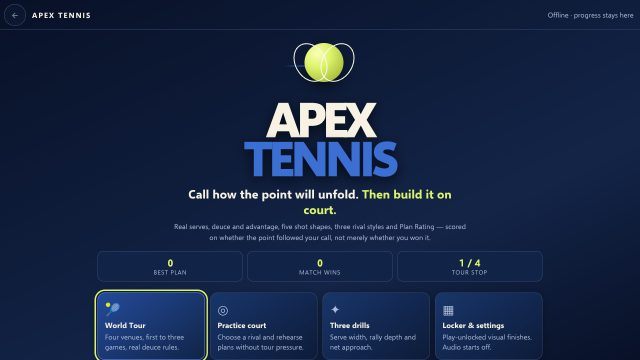
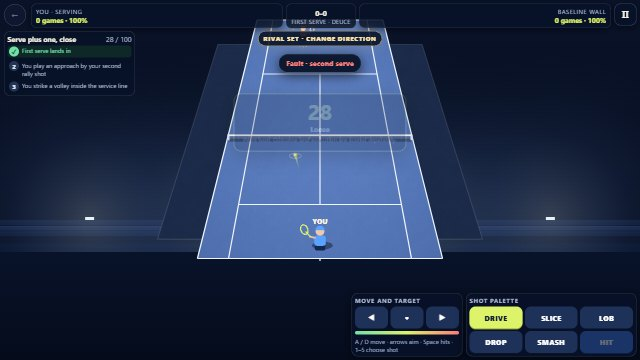
feat(play): upgrade Apex Tennis with CC0 court surfaces, net elevation/mesh & floodlit arena (#820)

diff --git a/apextennis/index.html b/apextennis/index.html
@@ -233,7 +233,7 @@ function pickChoices(){var rng=AT.mulberry32((G.pointSeed++*7919+G.venue*101)>>>
 function choosePlan(){clearTimers();G.phase='plan';G.planChoices=pickChoices();$('hud').classList.add('hidden');$('hud').setAttribute('aria-hidden','true');var cards=G.planChoices.map(function(p){return'<button class="plan-card" data-plan="'+p.id+'"><b>'+esc(p.name)+'</b><span>'+esc(p.desc)+(p.safe?' · SAFE PLAN · CEILING 70':'')+'</span><ol>'+p.clauses.map(function(c){return'<li>'+esc(c.label)+'</li>'}).join('')+'</ol><div class="call">CALL THIS POINT →</div></button>'}).join('');screens(panel('Call the point','<p class="note" style="margin-bottom:13px">Pick one plan. Its three clauses will tick visibly as the point develops. Winning and Plan Rating are scored separately.</p><div class="plan-grid">'+cards+'</div>','<button class="btn ghost" id="quitPlan">Title</button>'));document.querySelectorAll('[data-plan]').forEach(function(b){b.onclick=function(){beginPoint(AT.getPlan(b.dataset.plan))}});$('quitPlan').onclick=showTitle}
 function blankLog(){return{serveWide:false,serveWideMargin:0,servedBody:false,serveBodyDistance:999,shotCountAfterServe:0,finalLandingHalfMatches:false,ownShots:[],rallyShots:0,opponentStaminaMin:100,returnZone:'',tookNextBeforeSecondBounce:false,directionChanges:0,sameDirectionRun:0,firstBallCrosscourt:false,finalIntoOpenSpace:false,openSpaceMargin:0,firstServeIn:false,serveMargin:0,approachShotIndex:99,volleyInsideService:false,baselineShotsBeforeApproach:0,sliceCount:0,centreRecoveries:0,dropCount:0,backhandTargets:0,backhandBreak:false,finishAway:false,forehandTargetsBeforeBackhand:0,opponentInsideServiceAtLob:false,opponentCommitment:0,playerWon:false}}
 function startMatch(practice,drill){clearTimers();G.practice=!!practice;G.drill=drill||null;G.drillHits=0;G.drillTarget=drill==='serve'?5:(drill==='depth'?6:(drill==='net'?3:0));G.pauseOpen=false;G.v6Paused=false;G.score=AT.blankScore();G.score.setTarget=practice?2:3;G.ai.id=session.ai;G.player.stamina=G.ai.stamina=100;G.world=AT.makeWorld({surface:practice?session.surface:VENUES[G.venue].surface});G.running=true;G.last=performance.now();G.acc=0;G.selectedShot='drive';if(G.drill){var dp=G.drill==='serve'?'wide-first':(G.drill==='depth'?'grind-deep':'attack-net');beginPoint(AT.getPlan(dp))}else choosePlan()}
-function beginPoint(plan){clearTimers();G.selectedPlan=plan;G.log=blankLog();G.phase='serve';G.world=AT.makeWorld({surface:G.practice?session.surface:VENUES[G.venue].surface});G.world.ball.inRally=false;G.player.x=0;G.player.targetX=0;G.player.y=AT.C.PLAYER_Y;G.ai.x=0;G.ai.targetX=0;G.ai.y=AT.C.AI_Y;G.wasNearCentre=true;G.serveClock=0;G.lastHitter=null;G.shotReady=false;screens('');$('hud').classList.remove('hidden');$('hud').setAttribute('aria-hidden','false');updateHUD();resize();requestAnimationFrame(loop);canvas.focus();if(G.score.server===1){msg(AT.aiFor(G.ai.id).name+' serves.','warn');scheduleTimer(aiServe,settings.reduced?120:520)}else msg(G.score.serveNumber===2?'Second serve.':'Choose a target and serve.','warn')}
+function beginPoint(plan){clearTimers();G.selectedPlan=plan;G.log=blankLog();G.phase='serve';G.world=AT.makeWorld({surface:G.practice?session.surface:VENUES[G.venue].surface});G.world.ball.inRally=false;G.player.x=0;G.player.targetX=0;G.player.y=AT.C.PLAYER_Y;G.ai.x=0;G.ai.targetX=0;G.ai.y=AT.C.AI_Y;AT_TRAIL.length=0;AT_PUFFS.length=0;G.wasNearCentre=true;G.serveClock=0;G.lastHitter=null;G.shotReady=false;screens('');$('hud').classList.remove('hidden');$('hud').setAttribute('aria-hidden','false');updateHUD();resize();requestAnimationFrame(loop);canvas.focus();if(G.score.server===1){msg(AT.aiFor(G.ai.id).name+' serves.','warn');scheduleTimer(aiServe,settings.reduced?120:520)}else msg(G.score.serveNumber===2?'Second serve.':'Choose a target and serve.','warn')}
 function updateHUD(){var s=G.score;$('pLabel').textContent=s.server===0?'You · serving':'You';$('aLabel').textContent=AT.aiFor(G.ai.id).name+(s.server===1?' · serving':'');$('pScore').textContent=s.games[0]+' games · '+Math.round(G.player.stamina)+'%';$('aScore').textContent=s.games[1]+' games · '+Math.round(G.ai.stamina)+'%';$('pointScore').textContent=AT.pointDisplay(s);$('serveRead').textContent=(s.serveNumber===1?'FIRST':'SECOND')+' SERVE · '+s.side.toUpperCase();var drillTag=G.drill?(' · DRILL '+G.drillHits+'/'+G.drillTarget):'';$('planName').textContent=(G.selectedPlan?G.selectedPlan.name:'Plan')+drillTag;renderClauses();document.querySelectorAll('[data-shot]').forEach(function(b){b.setAttribute('aria-pressed',String(b.dataset.shot===G.selectedShot))});$('serveBtn').classList.toggle('hidden',G.phase!=='serve'||s.server!==0);$('hitBtn').disabled=!G.shotReady;$('staminaFill').style.width=Math.round(G.player.stamina)+'%'}
 function liveEvaluation(){if(!G.selectedPlan||!G.log)return null;return AT.evaluatePlan(G.selectedPlan,G.log)}
 function renderClauses(){var e=liveEvaluation(),box=$('clauseList');if(!e){box.textContent='';return}var rating=AT.planRating(G.selectedPlan,G.log);$('planLiveScore').textContent=rating+' / 100';box.innerHTML=e.rows.map(function(r,i){return'<div class="clause '+(r.met?'met':r.status==='failed'?'failed':'')+'"><i>'+(r.met?'✓':r.status==='failed'?'×':(i+1))+'</i><span>'+esc(r.label)+(r.status==='failed'?' — contradicted':'')+'</span></div>'}).join('')}
@@ -247,21 +247,86 @@ function attemptHit(who,kind){if(G.phase!=='rally'||G.world.ball.terminal)return
 function playerHit(){if(!G.shotReady){msg('Wait until the ball reaches your strike zone.','warn',900);return}attemptHit(0,G.selectedShot)}
 function aiHit(){var a=AT.aiFor(G.ai.id),b=G.world.ball;if(G.phase!=='rally'||G.receiver!==1)return;var kind='drive';if(a.id==='net'&&G.ai.stamina>25){kind=(b.z>120?'smash':'drive');G.ai.y=AT.moveToward(G.ai.y,-260,a.speed,AT.C.DT)}else if(a.id==='angle')kind=(G.pointSeed%3===0?'slice':'drive');else if(a.id==='baseline')kind=(G.pointSeed%4===0?'lob':'drive');attemptHit(1,kind)}
 function markServeIfNeeded(ev){if(!ev||G.log.returnZone)return;var m=ev.mark;if(G.lastHitter===G.score.server){var ok=AT.serviceBox(m.x,m.y,G.score.server,G.score.side,AT.C.BALL_R);if(!ok){G.world.ball.terminal=true;G.world.ball.inRally=false;var r=AT.serveResult(G.score,'fault');msg(r.event==='second-serve'?'Fault · second serve':'Double fault','bad',1300);if(r.event==='second-serve'){scheduleTimer(function(){G.phase='serve';G.world=AT.makeWorld({surface:G.world.surface});updateHUD();if(G.score.server===1)scheduleTimer(aiServe,350)},500)}else scheduleTimer(finishPoint,650);return false}if(G.score.server===0&&G.drill==='serve'&&Math.abs(m.x)>AT.C.SINGLES_HALF*.62)scoreDrillHit('Serve width mastered!');G.log.returnZone=Math.abs(m.y)<AT.C.SERVICE_L*.55?'front':'deep'}return true}
-function physicsStep(){var before=G.world.events.length;AT.stepWorld(G.world,AT.C.DT);for(var i=before;i<G.world.events.length;i++)if(G.world.events[i].type==='bounce'&&markServeIfNeeded(G.world.events[i])===false)return;var b=G.world.ball;if(G.phase==='rally'&&!b.terminal){if(G.receiver===1){var speedAi=AT.aiFor(G.ai.id).speed;G.ai.targetX=AT.clamp(b.x,-AT.C.SINGLES_HALF,AT.C.SINGLES_HALF);G.ai.x=AT.moveToward(G.ai.x,G.ai.targetX,speedAi*(.6+.4*G.ai.stamina/100),AT.C.DT);aiHit()}else{if(performance.now()>=G.manualUntil){G.player.targetX=AT.clamp(b.x,-AT.C.SINGLES_HALF,AT.C.SINGLES_HALF);G.player.x=AT.moveToward(G.player.x,G.player.targetX,235*(.6+.4*G.player.stamina/100),AT.C.DT)}if(G.drill==='net'&&G.log.ownShots.length>=1)G.player.y=AT.moveToward(G.player.y,AT.C.SERVICE_L*.72,180,AT.C.DT);var d=AT.hypot(b.x-G.player.x,b.y-G.player.y);G.shotReady=d<95&&b.z<210;if(G.shotReady&&settings.reduced)msg('HIT WINDOW','good',250);if(Math.abs(G.player.x)>90)G.wasNearCentre=false;else if(!G.wasNearCentre&&Math.abs(G.player.x)<70){G.wasNearCentre=true;G.log.centreRecoveries++}}}if(b.terminal)scheduleTimer(finishPoint,300)}
+function physicsStep(){var before=G.world.events.length;AT.stepWorld(G.world,AT.C.DT);for(var i=before;i<G.world.events.length;i++)if(G.world.events[i].type==='bounce'){var bm=G.world.events[i].mark;if(bm)addBouncePuff(bm.x,bm.y);if(markServeIfNeeded(G.world.events[i])===false)return;}var b=G.world.ball;if(G.phase==='rally'&&!b.terminal){if(G.receiver===1){var speedAi=AT.aiFor(G.ai.id).speed;G.ai.targetX=AT.clamp(b.x,-AT.C.SINGLES_HALF,AT.C.SINGLES_HALF);G.ai.x=AT.moveToward(G.ai.x,G.ai.targetX,speedAi*(.6+.4*G.ai.stamina/100),AT.C.DT);aiHit()}else{if(performance.now()>=G.manualUntil){G.player.targetX=AT.clamp(b.x,-AT.C.SINGLES_HALF,AT.C.SINGLES_HALF);G.player.x=AT.moveToward(G.player.x,G.player.targetX,235*(.6+.4*G.player.stamina/100),AT.C.DT)}if(G.drill==='net'&&G.log.ownShots.length>=1)G.player.y=AT.moveToward(G.player.y,AT.C.SERVICE_L*.72,180,AT.C.DT);var d=AT.hypot(b.x-G.player.x,b.y-G.player.y);G.shotReady=d<95&&b.z<210;if(G.shotReady&&settings.reduced)msg('HIT WINDOW','good',250);if(Math.abs(G.player.x)>90)G.wasNearCentre=false;else if(!G.wasNearCentre&&Math.abs(G.player.x)<70){G.wasNearCentre=true;G.log.centreRecoveries++}}}if(!v6Reduced()&&b.inRally){var tp=project(b.x,b.y,b.z);AT_TRAIL.push({x:tp.x,y:tp.y});if(AT_TRAIL.length>12)AT_TRAIL.shift();}if(b.terminal)scheduleTimer(finishPoint,300)}
 function finishPoint(){if(!G.running||G.phase==='rating'||G.phase==='plan')return;G.phase='rating';var winner=G.world.winner;if(winner===null)winner=1-G.receiver;G.log.playerWon=winner===0;G.log.finalLandingHalfMatches=(G.log.serveWide&&Math.sign(G.world.ball.x)!==Math.sign(G.log.serveWide?G.aimX:1));G.log.finalIntoOpenSpace=G.log.finalIntoOpenSpace||Math.abs(G.world.ball.x)>110;G.log.openSpaceMargin=AT.clamp(Math.abs(G.world.ball.x)/AT.C.SINGLES_HALF,0,1);if(G.log.ownShots.length)G.log.finalLandingHalfMatches=G.log.finalLandingHalfMatches||G.log.ownShots[G.log.ownShots.length-1].direction!==(G.aimX>0?'right':'left');AT.awardPoint(G.score,winner);var rating=AT.planRating(G.selectedPlan,G.log),band=AT.ratingBand(rating);progress.bestPlan=Math.max(progress.bestPlan,rating);if(rating>=70&&progress.unlocked.indexOf('white')<0)progress.unlocked.push('white');if(rating>=85&&progress.unlocked.indexOf('solar')<0)progress.unlocked.push('solar');if(rating>=95&&progress.unlocked.indexOf('gold')<0)progress.unlocked.push('gold');save();$('ratingNum').textContent=rating;$('ratingBand').textContent=band;$('ratingText').textContent=(winner===0?'Point won. ':'Point lost. ')+(AT.evaluatePlan(G.selectedPlan,G.log).abandoned?'The plan was contradicted.':'Outcome and execution are scored separately.');$('rating').classList.add('rating-on');renderClauses();announce('Plan Rating '+rating+' out of 100. '+band+'. '+(winner===0?'Point won.':'Point lost.'));scheduleTimer(function(){$('rating').classList.remove('rating-on');afterPoint()},settings.reduced?900:1800)}
 function afterPoint(){if(G.score.matchOver){finishMatch();return}if(G.drill){beginPoint(G.selectedPlan);return}choosePlan()}
 function finishMatch(){clearTimers();G.running=false;$('hud').classList.add('hidden');$('hud').setAttribute('aria-hidden','true');var won=G.score.winner===0;if(won){progress.matchWins++;if(!G.practice){progress.completed.indexOf(G.venue)<0&&progress.completed.push(G.venue);progress.venue=Math.min(3,G.venue+1)}}save();var body='<div class="title"><div style="font-size:66px">'+(won?'🏆':'🎾')+'</div><h1 style="font-size:34px">'+(won?'Match won':'Match complete')+'</h1><p class="thesis">'+(won?'You climbed the tour.':'The rival held this stop. Your Plan Rating progress remains.')+'</p><div class="stat-grid"><div class="stat"><b>'+G.score.games[0]+'–'+G.score.games[1]+'</b><span>games</span></div><div class="stat"><b>'+progress.bestPlan+'</b><span>best plan</span></div><div class="stat"><b>'+progress.completed.length+'</b><span>tour clears</span></div></div></div>';screens(panel('Match result',body,'<button class="btn sec" id="homeResult">Title</button><button class="btn" id="againResult">Play again</button>'));$('homeResult').onclick=showTitle;$('againResult').onclick=function(){startMatch(G.practice,G.drill)}}
 function resize(){var d=Math.min(2,devicePixelRatio||1);G.view.w=innerWidth;G.view.h=innerHeight;G.view.dpr=d;canvas.width=Math.round(innerWidth*d);canvas.height=Math.round(innerHeight*d);canvas.style.width=innerWidth+'px';canvas.style.height=innerHeight+'px'}addEventListener('resize',resize,{passive:true});
 function project(x,y,z){var W=G.view.w,H=G.view.h,portrait=H>W,ctr=$('controls'),ch=(ctr&&!$('hud').classList.contains('hidden'))?ctr.offsetHeight:0,topOff=portrait?104:(H<500?68:42),bottomPad=portrait?Math.max(ch+28,Math.round(H*.38)):(H<650?Math.max(ch+14,132):205),playH=Math.max(150,H-topOff-bottomPad),t=(y+AT.C.HALF_L)/(AT.C.HALF_L*2),k=.62+t*.58,base=Math.min((W-24)/(AT.C.DOUBLES_HALF*2.7),playH/(AT.C.HALF_L*1.42));return{x:W/2+x*base*k,y:topOff+t*playH-z*base*.42*k,k:k,scale:base}}
-function drawCourt(){var v=VENUES[G.venue]||VENUES[0],fin=activeFinish(),W=G.view.w,H=G.view.h,gr=ctx.createLinearGradient(0,0,0,H);gr.addColorStop(0,v.sky);gr.addColorStop(1,'#071024');ctx.fillStyle=gr;ctx.fillRect(0,0,W,H);var b=AT.boundaryView('doubles'),corners=[[-b.right,-b.far],[b.right,-b.far],[b.right,b.far],[-b.right,b.far]],p=corners.map(function(q){return project(q[0],q[1],0)});ctx.fillStyle=v.court;ctx.beginPath();ctx.moveTo(p[0].x,p[0].y);for(var i=1;i<p.length;i++)ctx.lineTo(p[i].x,p[i].y);ctx.closePath();ctx.fill();ctx.strokeStyle=settings.highContrast?'#FFFFFF':(fin.id==='gold'||fin.id==='solar'?fin.kit:'#E8F0FF');ctx.lineWidth=2;function line(ax,ay,bx,by){var a=project(ax,ay,0),c=project(bx,by,0);ctx.beginPath();ctx.moveTo(a.x,a.y);ctx.lineTo(c.x,c.y);ctx.stroke()}var sb=AT.courtBounds('singles');line(-sb.x,-sb.y,sb.x,-sb.y);line(sb.x,-sb.y,sb.x,sb.y);line(sb.x,sb.y,-sb.x,sb.y);line(-sb.x,sb.y,-sb.x,-sb.y);line(-sb.x,-AT.C.SERVICE_L,sb.x,-AT.C.SERVICE_L);line(-sb.x,AT.C.SERVICE_L,sb.x,AT.C.SERVICE_L);line(0,-AT.C.SERVICE_L,0,AT.C.SERVICE_L);line(-b.right,0,b.right,0);if(G.drill){ctx.save();ctx.fillStyle='rgba(221,243,106,.18)';ctx.strokeStyle='#DDF36A';ctx.lineWidth=2;var zRects=G.drill==='serve'?[[-sb.x,-AT.C.SERVICE_L,-sb.x*.62,0],[sb.x*.62,-AT.C.SERVICE_L,sb.x,0]]:(G.drill==='depth'?[[-sb.x,-sb.y,sb.x,-AT.C.SERVICE_L]]:[[-sb.x,0,sb.x,AT.C.SERVICE_L]]);zRects.forEach(function(zr){var q=[project(zr[0],zr[1],0),project(zr[2],zr[1],0),project(zr[2],zr[3],0),project(zr[0],zr[3],0)];ctx.beginPath();ctx.moveTo(q[0].x,q[0].y);ctx.lineTo(q[1].x,q[1].y);ctx.lineTo(q[2].x,q[2].y);ctx.lineTo(q[3].x,q[3].y);ctx.closePath();ctx.fill();ctx.stroke()});ctx.restore()}var n1=project(-AT.C.DOUBLES_HALF,0,0),n2=project(AT.C.DOUBLES_HALF,0,0),nz=project(0,0,AT.C.NET_H);ctx.strokeStyle='#EFF4FF';ctx.lineWidth=3;ctx.beginPath();ctx.moveTo(n1.x,n1.y-(nz.y-project(0,0,0).y));ctx.lineTo(n2.x,n2.y-(nz.y-project(0,0,0).y));ctx.stroke();ctx.strokeStyle='#FFFFFF55';ctx.lineWidth=1;for(var j=1;j<9;j++){var yy=n1.y+(n2.y-n1.y)*j/9;ctx.beginPath();ctx.moveTo(n1.x,yy);ctx.lineTo(n2.x,yy);ctx.stroke()}}
-function drawPlayer(pl,color,label){var p=project(pl.x,pl.y,0),s=project(pl.x,pl.y,70);ctx.fillStyle='#0007';ctx.beginPath();ctx.ellipse(p.x,p.y+5,15*p.k,6*p.k,0,0,Math.PI*2);ctx.fill();ctx.strokeStyle=color;ctx.lineWidth=5*p.k;ctx.lineCap='round';ctx.beginPath();ctx.moveTo(s.x,s.y+15*p.k);ctx.lineTo(p.x,p.y);ctx.stroke();ctx.fillStyle=color;ctx.beginPath();ctx.arc(s.x,s.y,9*p.k,0,Math.PI*2);ctx.fill();ctx.fillStyle='#F7F2E4';ctx.font='800 '+Math.max(10,12*p.k)+'px system-ui';ctx.textAlign='center';ctx.fillText(label,s.x,s.y-14*p.k)}
-function drawBall(){if(!G.world)return;var b=G.world.ball,p=project(b.x,b.y,b.z),g=project(b.x,b.y,0),r=Math.max(3,AT.C.BALL_R*p.scale*p.k);ctx.fillStyle='#0007';ctx.beginPath();ctx.ellipse(g.x,g.y,r*1.2,r*.45,0,0,Math.PI*2);ctx.fill();ctx.fillStyle='#DDF36A';ctx.beginPath();ctx.arc(p.x,p.y,r,0,Math.PI*2);ctx.fill();ctx.strokeStyle='#F8FFE1';ctx.lineWidth=1;ctx.stroke()}
[1 lines of base64/hex data omitted]
+function addBouncePuff(x,y){if(v6Reduced())return;AT_PUFFS.push({x:x,y:y,life:1});if(AT_PUFFS.length>6)AT_PUFFS.shift();}
+function buildCourtCache(W,H,v,fin,surf){
+var cv=AT_CACHE.cv||document.createElement('canvas'),dpr=G.view.dpr||1;
+cv.width=Math.max(2,Math.round(W*dpr));cv.height=Math.max(2,Math.round(H*dpr));AT_CACHE.cv=cv;
+var c=cv.getContext('2d');c.setTransform(dpr,0,0,dpr,0,0);
+var gr=c.createLinearGradient(0,0,0,H);gr.addColorStop(0,v.sky);gr.addColorStop(.52,'#0A1732');gr.addColorStop(1,'#050B1B');c.fillStyle=gr;c.fillRect(0,0,W,H);
+var b=AT.boundaryView('doubles'),sb=AT.courtBounds('singles');
+var farL=project(-b.right,-b.far,0),farR=project(b.right,-b.far,0),nearR=project(b.right,b.far,0),nearL=project(-b.right,b.far,0);
+var horizonY=Math.max(24,farL.y-46);
+c.save();c.fillStyle='rgba(7,14,32,.86)';c.fillRect(0,0,W,horizonY+16);
+for(var tier=0;tier<3;tier++){var ty=horizonY-tier*11;c.fillStyle=tier%2?'rgba(24,42,84,.65)':'rgba(15,28,58,.75)';c.fillRect(0,ty-8,W,9);c.fillStyle='rgba(255,255,255,.05)';c.fillRect(0,ty-8,W,1.5);}
+[[W*.14,horizonY-34],[W*.86,horizonY-34],[W*.34,horizonY-40],[W*.66,horizonY-40]].forEach(function(pt){
+var fg=c.createRadialGradient(pt[0],pt[1],2,pt[0],pt[1],W*.28);fg.addColorStop(0,'rgba(218,236,255,.22)');fg.addColorStop(.45,'rgba(120,170,255,.07)');fg.addColorStop(1,'rgba(0,0,0,0)');c.fillStyle=fg;c.fillRect(0,0,W,H*.7);c.fillStyle='#EFF6FF';c.fillRect(pt[0]-9,pt[1]-3,18,6);});
+c.restore();
+var apL=project(-b.right-135,-b.far-95,0),apR=project(b.right+135,-b.far-95,0),apNR=project(b.right+170,b.far+120,0),apNL=project(-b.right-170,b.far+120,0);
+c.save();c.beginPath();c.moveTo(apL.x,apL.y);c.lineTo(apR.x,apR.y);c.lineTo(apNR.x,apNR.y);c.lineTo(apNL.x,apNL.y);c.closePath();
+c.fillStyle=surf==='clay'?'#2B1618':(surf==='grass'?'#0E261B':'#0E2146');c.fill();
+if(AT_PAT[surf]){c.save();c.clip();c.globalAlpha=.14;c.fillStyle=AT_PAT[surf];c.fillRect(0,0,W,H);c.restore();}
+c.strokeStyle='rgba(255,255,255,.12)';c.lineWidth=2;c.stroke();c.restore();
+c.save();c.beginPath();c.moveTo(farL.x,farL.y);c.lineTo(farR.x,farR.y);c.lineTo(nearR.x,nearR.y);c.lineTo(nearL.x,nearL.y);c.closePath();
+c.fillStyle=v.court;c.fill();c.clip();
+if(surf==='grass'){for(var st=0;st<10;st++){var yA=-b.far+(b.far*2)*st/10,yB=-b.far+(b.far*2)*(st+1)/10,s1=project(-b.right,yA,0),s2=project(b.right,yA,0),s3=project(b.right,yB,0),s4=project(-b.right,yB,0);c.fillStyle=st%2?'rgba(255,255,255,.045)':'rgba(0,0,0,.06)';c.beginPath();c.moveTo(s1.x,s1.y);c.lineTo(s2.x,s2.y);c.lineTo(s3.x,s3.y);c.lineTo(s4.x,s4.y);c.closePath();c.fill();}}
+var pat=AT_PAT[surf]||AT_PAT.hard;
+if(pat){c.globalAlpha=surf==='clay'?.26:(surf==='grass'?.20:.22);c.fillStyle=pat;c.fillRect(0,0,W,H);c.globalAlpha=1;}
+var sh=c.createRadialGradient(W*.5,(farL.y+nearL.y)*.48,18,W*.5,(farL.y+nearL.y)*.52,Math.max(W,H)*.46);sh.addColorStop(0,'rgba(255,255,255,.12)');sh.addColorStop(1,'rgba(0,0,0,.22)');c.fillStyle=sh;c.fillRect(0,0,W,H);
+c.restore();
+c.strokeStyle=settings.highContrast?'#FFFFFF':(fin.id==='gold'||fin.id==='solar'?fin.kit:'#F0F5FF');c.lineWidth=2.4;
+function ln(ax,ay,bx,by){var a=project(ax,ay,0),d=project(bx,by,0);c.beginPath();c.moveTo(a.x,a.y);c.lineTo(d.x,d.y);c.stroke();}
+ln(-b.right,-b.far,b.right,-b.far);ln(b.right,-b.far,b.right,b.far);ln(b.right,b.far,-b.right,b.far);ln(-b.right,b.far,-b.right,-b.far);
+ln(-sb.x,-sb.y,-sb.x,sb.y);ln(sb.x,-sb.y,sb.x,sb.y);ln(-sb.x,-AT.C.SERVICE_L,sb.x,-AT.C.SERVICE_L);ln(-sb.x,AT.C.SERVICE_L,sb.x,AT.C.SERVICE_L);
+ln(0,-AT.C.SERVICE_L,0,AT.C.SERVICE_L);ln(0,-b.far,0,-b.far+12);ln(0,b.far-12,0,b.far);
+return cv;}
+function drawCourt(){var v=VENUES[G.venue]||VENUES[0],fin=activeFinish(),surf=(G.world&&G.world.surface)||v.surface,W=G.view.w,H=G.view.h,dpr=G.view.dpr||1;
+var key=W+'|'+H+'|'+dpr+'|'+G.venue+'|'+surf+'|'+(settings.highContrast?1:0)+'|'+fin.id+'|'+(AT_PAT[surf]?1:0);
+if(AT_CACHE.key!==key||!AT_CACHE.cv){AT_CACHE.key=key;buildCourtCache(W,H,v,fin,surf);}
+ctx.drawImage(AT_CACHE.cv,0,0,W,H);
+var b=AT.boundaryView('doubles'),sb=AT.courtBounds('singles');
+if(G.drill){ctx.save();ctx.fillStyle='rgba(221,243,106,.2)';ctx.strokeStyle='#DDF36A';ctx.lineWidth=2;var zRects=G.drill==='serve'?[[-sb.x,-AT.C.SERVICE_L,-sb.x*.62,0],[sb.x*.62,-AT.C.SERVICE_L,sb.x,0]]:(G.drill==='depth'?[[-sb.x,-sb.y,sb.x,-AT.C.SERVICE_L]]:[[-sb.x,0,sb.x,AT.C.SERVICE_L]]);zRects.forEach(function(zr){var q=[project(zr[0],zr[1],0),project(zr[2],zr[1],0),project(zr[2],zr[3],0),project(zr[0],zr[3],0)];ctx.beginPath();ctx.moveTo(q[0].x,q[0].y);ctx.lineTo(q[1].x,q[1].y);ctx.lineTo(q[2].x,q[2].y);ctx.lineTo(q[3].x,q[3].y);ctx.closePath();ctx.fill();ctx.stroke();});ctx.restore();}
+for(var pf=AT_PUFFS.length-1;pf>=0;pf--){var pu=AT_PUFFS[pf],pp=project(pu.x,pu.y,0),rad=(1-pu.life)*18+4;ctx.save();ctx.globalAlpha=pu.life*.55;ctx.strokeStyle='#F7F2E4';ctx.lineWidth=2;ctx.beginPath();ctx.ellipse(pp.x,pp.y,rad,rad*.42,0,0,Math.PI*2);ctx.stroke();ctx.restore();pu.life-=.04;if(pu.life<=0)AT_PUFFS.splice(pf,1);}
+var n1=project(-AT.C.DOUBLES_HALF,0,0),n2=project(AT.C.DOUBLES_HALF,0,0),nz=project(0,0,AT.C.NET_H),topY=Math.min(n1.y-8,nz.y),ncx=project(0,0,0).x;
+ctx.save();ctx.fillStyle='rgba(0,0,0,.28)';ctx.fillRect(n1.x,n1.y-1,n2.x-n1.x,6);
+ctx.fillStyle='rgba(12,24,48,.32)';ctx.fillRect(n1.x,topY,n2.x-n1.x,n1.y-topY);
+ctx.strokeStyle='rgba(255,255,255,.26)';ctx.lineWidth=1;
+for(var j=1;j<=4;j++){var yy=topY+(n1.y-topY)*(j/5);ctx.beginPath();ctx.moveTo(n1.x,yy);ctx.lineTo(n2.x,yy);ctx.stroke();}
+for(var vx=0;vx<=18;vx++){var xx=n1.x+(n2.x-n1.x)*(vx/18);ctx.beginPath();ctx.moveTo(xx,topY);ctx.lineTo(xx,n1.y);ctx.stroke();}
+ctx.strokeStyle='#D9E4F5';ctx.lineWidth=4;ctx.beginPath();ctx.moveTo(n1.x,n1.y+2);ctx.lineTo(n1.x,topY-2);ctx.moveTo(n2.x,n2.y+2);ctx.lineTo(n2.x,topY-2);ctx.stroke();
+ctx.strokeStyle='#F8FAFF';ctx.lineWidth=3.5;ctx.beginPath();ctx.moveTo(n1.x,topY);ctx.lineTo(n2.x,topY);ctx.stroke();
+ctx.strokeStyle='#F8FAFF';ctx.lineWidth=2.5;ctx.beginPath();ctx.moveTo(ncx,topY);ctx.lineTo(ncx,n1.y);ctx.stroke();
+ctx.restore();}
+function drawPlayer(pl,color,label){var p=project(pl.x,pl.y,0),s=project(pl.x,pl.y,72),fin=activeFinish(),isYou=label==='YOU';
+ctx.save();ctx.fillStyle='rgba(0,0,0,.38)';ctx.beginPath();ctx.ellipse(p.x+4*p.k,p.y+4*p.k,18*p.k,7*p.k,0,0,Math.PI*2);ctx.fill();
+ctx.strokeStyle=color;ctx.lineWidth=4.2*p.k;ctx.lineCap='round';ctx.beginPath();
+ctx.moveTo(p.x-5*p.k,p.y);ctx.lineTo(p.x-3*p.k,s.y+28*p.k);ctx.moveTo(p.x+5*p.k,p.y);ctx.lineTo(p.x+3*p.k,s.y+28*p.k);ctx.stroke();
+ctx.fillStyle=isYou?'#14274E':'#2A192A';ctx.beginPath();ctx.roundRect?ctx.roundRect(s.x-9*p.k,s.y+18*p.k,18*p.k,12*p.k,3*p.k):ctx.rect(s.x-9*p.k,s.y+18*p.k,18*p.k,12*p.k);ctx.fill();
+ctx.fillStyle=color;ctx.beginPath();ctx.roundRect?ctx.roundRect(s.x-10*p.k,s.y+4*p.k,20*p.k,18*p.k,5*p.k):ctx.rect(s.x-10*p.k,s.y+4*p.k,20*p.k,18*p.k);ctx.fill();
+var side=pl.x>=0?-1:1,rx=s.x+side*17*p.k,ry=s.y+(isYou?6:12)*p.k;
+ctx.strokeStyle='#E6C3A5';ctx.lineWidth=3.2*p.k;ctx.beginPath();ctx.moveTo(s.x+side*9*p.k,s.y+8*p.k);ctx.lineTo(rx,ry);ctx.stroke();
+ctx.strokeStyle=isYou?fin.trim:'#E8EEF8';ctx.lineWidth=2.2*p.k;ctx.beginPath();ctx.moveTo(rx,ry);ctx.lineTo(rx+side*7*p.k,ry-8*p.k);ctx.stroke();
+ctx.beginPath();ctx.ellipse(rx+side*10*p.k,ry-12*p.k,6*p.k,8.5*p.k,side*.35,0,Math.PI*2);ctx.stroke();
+ctx.fillStyle='#F2C9A8';ctx.beginPath();ctx.arc(s.x,s.y-3*p.k,7.5*p.k,0,Math.PI*2);ctx.fill();
+ctx.fillStyle=color;ctx.beginPath();ctx.arc(s.x,s.y-5*p.k,7.8*p.k,Math.PI,0);ctx.fill();
+ctx.fillStyle='#F7F2E4';ctx.font='800 '+Math.max(10,12*p.k)+'px system-ui';ctx.textAlign='center';ctx.fillText(label,s.x,s.y-16*p.k);ctx.restore();}
+function drawBall(){if(!G.world)return;var b=G.world.ball,p=project(b.x,b.y,b.z),g=project(b.x,b.y,0),r=Math.max(3.4,AT.C.BALL_R*p.scale*p.k);
+if(!v6Reduced()&&AT_TRAIL.length>1){ctx.save();for(var ti=1;ti<AT_TRAIL.length;ti++){var t0=AT_TRAIL[ti-1],t1=AT_TRAIL[ti],a=ti/AT_TRAIL.length;ctx.strokeStyle='rgba(221,243,106,'+(a*.42).toFixed(2)+')';ctx.lineWidth=Math.max(1.5,r*a*1.1);ctx.lineCap='round';ctx.beginPath();ctx.moveTo(t0.x,t0.y);ctx.lineTo(t1.x,t1.y);ctx.stroke();}ctx.restore();}
+ctx.fillStyle='rgba(0,0,0,.42)';ctx.beginPath();ctx.ellipse(g.x,g.y,r*(1.15+Math.min(.6,b.z/180)),r*.45,0,0,Math.PI*2);ctx.fill();
+var bg=ctx.createRadialGradient(p.x-r*.32,p.y-r*.34,r*.15,p.x,p.y,r);bg.addColorStop(0,'#FAFFD0');bg.addColorStop(.55,'#DDF36A');bg.addColorStop(1,'#7B911C');
+ctx.fillStyle=bg;ctx.beginPath();ctx.arc(p.x,p.y,r,0,Math.PI*2);ctx.fill();ctx.strokeStyle='rgba(255,255,255,.78)';ctx.lineWidth=1;ctx.stroke();}
 function render(){ctx.setTransform(G.view.dpr,0,0,G.view.dpr,0,0);drawCourt();drawPlayer(G.ai,'#FF9B84',AT.aiFor(G.ai.id).name.split(' ')[0]);drawPlayer(G.player,activeFinish().kit,'YOU');drawBall();if(G.sweetSpot&&performance.now()<G.sweetSpot.until){var sp=project(G.sweetSpot.x,G.sweetSpot.y,G.sweetSpot.z);ctx.save();ctx.strokeStyle='#FFD166';ctx.lineWidth=3;ctx.beginPath();ctx.arc(sp.x,sp.y,22,0,Math.PI*2);ctx.stroke();ctx.restore()}if(G.phase==='serve'&&G.score.server===0){var t=project(G.aimX,G.score.server===0?-180:180,0);ctx.strokeStyle='#DDF36A';ctx.lineWidth=2;ctx.setLineDash([6,5]);ctx.beginPath();ctx.arc(t.x,t.y,18,0,Math.PI*2);ctx.stroke();ctx.setLineDash([])}}
 function loop(now){if(!G.running)return;var dt=Math.min(.05,Math.max(0,(now-G.last)/1000||0));G.last=now;if(G.phase==='rally'&&!G.v6Paused){G.acc+=dt;var n=0;while(G.acc>=AT.C.DT&&n++<AT.C.MAX_SUBSTEPS){physicsStep();G.acc-=AT.C.DT}}render();requestAnimationFrame(loop)}
 function pointer(ev){var r=canvas.getBoundingClientRect(),sx=(ev.clientX-r.left)*(G.view.w/r.width),best=0,bd=1e9;for(var x=-AT.C.SINGLES_HALF;x<=AT.C.SINGLES_HALF;x+=5){var p=project(x,G.score.server===0?-180:180,0),d=Math.abs(p.x-sx);if(d<bd){bd=d;best=x}}return best}
 canvas.addEventListener('pointerdown',function(ev){if(!G.running)return;G.aimX=pointer(ev);G.player.targetX=G.aimX;updateHUD()});
 function move(dx){G.manualUntil=performance.now()+480;G.player.x=AT.clamp(G.player.x+dx,-AT.C.SINGLES_HALF,AT.C.SINGLES_HALF);G.player.targetX=G.player.x;updateHUD()}$('moveLeft').onclick=function(){move(-45)};$('moveRight').onclick=function(){move(45)};$('moveHome').onclick=function(){G.manualUntil=performance.now()+480;G.player.x=0;G.player.targetX=0;updateHUD()};$('pauseMatchBtn').onclick=function(){if(!G.pauseOpen)openPauseModal($('pauseMatchBtn'));else togglePause()};document.querySelectorAll('[data-shot]').forEach(function(b){b.onclick=function(){G.selectedShot=b.dataset.shot;updateHUD()}});$('hitBtn').onclick=playerHit;$('serveBtn').onclick=playerServe;
-addEventListener('keydown',function(ev){if(!G.running)return;var k=ev.key.toLowerCase(),map={'1':'drive','2':'slice','3':'lob','4':'drop','5':'smash'};if(k==='escape'){if(G.pauseOpen||G.phase==='serve'||G.phase==='rally'){ev.preventDefault();togglePause();return}showTitle();return}if(G.pauseOpen)return;if(map[k]){G.selectedShot=map[k];updateHUD();ev.preventDefault()}else if(k==='a'||k==='arrowleft'){move(-35);ev.preventDefault()}else if(k==='d'||k==='arrowright'){move(35);ev.preventDefault()}else if(k==='arrowup'){G.aimX=AT.clamp(G.aimX+25,-AT.C.SINGLES_HALF,AT.C.SINGLES_HALF);ev.preventDefault()}else if(k==='arrowdown'){G.aimX=AT.clamp(G.aimX-25,-AT.C.SINGLES_HALF,AT.C.SINGLES_HALF);ev.preventDefault()}else if(k===' '||k==='enter'){ev.preventDefault();if(G.phase==='serve')playerServe();else playerHit()}});
+addEventListener('keydown',function(ev){if(!G.running||ev.ctrlKey||ev.metaKey||ev.altKey)return;var ae=document.activeElement,tag=ae?ae.tagName:'';if(tag==='INPUT'||tag==='TEXTAREA'||tag==='SELECT')return;var k=ev.key.toLowerCase(),map={'1':'drive','2':'slice','3':'lob','4':'drop','5':'smash'};if(k==='escape'){if(G.pauseOpen||G.phase==='serve'||G.phase==='rally'){ev.preventDefault();togglePause();return}showTitle();return}if(G.pauseOpen)return;if((k===' '||k==='enter')&&(tag==='BUTTON'||tag==='A'))return;if(map[k]){G.selectedShot=map[k];updateHUD();ev.preventDefault()}else if(k==='a'||k==='arrowleft'){move(-35);ev.preventDefault()}else if(k==='d'||k==='arrowright'){move(35);ev.preventDefault()}else if(k==='arrowup'){G.aimX=AT.clamp(G.aimX+25,-AT.C.SINGLES_HALF,AT.C.SINGLES_HALF);ev.preventDefault()}else if(k==='arrowdown'){G.aimX=AT.clamp(G.aimX-25,-AT.C.SINGLES_HALF,AT.C.SINGLES_HALF);ev.preventDefault()}else if(k===' '||k==='enter'){ev.preventDefault();if(G.phase==='serve')playerServe();else playerHit()}});
 var audioCtx=null,voices=0;function beep(freq,ms){if(!settings.audio||voices>=4)return;try{audioCtx=audioCtx||new (window.AudioContext||window.webkitAudioContext)();var o=audioCtx.createOscillator(),g=audioCtx.createGain();voices++;o.type='sine';o.frequency.value=freq;g.gain.setValueAtTime(.025,audioCtx.currentTime);g.gain.exponentialRampToValueAtTime(.0001,audioCtx.currentTime+ms/1000);o.connect(g);g.connect(audioCtx.destination);o.onended=function(){voices=Math.max(0,voices-1)};o.start();o.stop(audioCtx.currentTime+ms/1000)}catch(e){voices=Math.max(0,voices-1)}}
 
 /* ===== AT V6: presentation, ergonomics and profile services only ===== */
@@ -305,7 +370,8 @@ var v6Render=render;render=function(){var alpha=AT.clamp(G.acc/AT.C.DT,0,1),b=G.
 
 canvas.addEventListener('pointerdown',function(ev){if(!G.running||!G.shotReady||(ev.pointerType!=='touch'&&ev.pointerType!=='pen'))return;var rect=canvas.getBoundingClientRect(),sx=(ev.clientX-rect.left)*(G.view.w/rect.width),sy=(ev.clientY-rect.top)*(G.view.h/rect.height),p=project(G.player.x,G.player.y,55),d=Math.hypot(sx-p.x,sy-p.y),danger=(G.world&&G.world.ball&&G.world.ball.bounces>0)?100:0,score=120-d+danger+(v6Breakpoint()?45:0);if(score>92){playerHit();ev.preventDefault()}},{passive:false});
 
-document.addEventListener('visibilitychange',function(){if(document.hidden){G.v6Resume=!!G.running;G.running=false;G.v6Paused=true;MasterBus.ctx&&MasterBus.ctx.suspend&&MasterBus.ctx.suspend().catch(function(){})}else if(G.v6Resume){G.v6Resume=false;G.running=true;G.v6Paused=false;G.last=performance.now();if(G.phase==='serve'&&G.score.server===1)setTimeout(aiServe,220);if(G.phase!=='plan'&&G.phase!=='menu')requestAnimationFrame(loop)}});
+addEventListener('blur',function(){G.sweetSpot=null;AT_TRAIL.length=0;});
+document.addEventListener('visibilitychange',function(){if(document.hidden){G.v6Resume=!!G.running;G.running=false;G.v6Paused=true;MasterBus.ctx&&MasterBus.ctx.suspend&&MasterBus.ctx.suspend().catch(function(){})}else if(G.v6Resume){G.v6Resume=false;G.running=true;G.v6Paused=!!G.pauseOpen;G.last=performance.now();if(G.phase==='serve'&&G.score.server===1)setTimeout(aiServe,220);if(G.phase!=='plan'&&G.phase!=='menu')requestAnimationFrame(loop)}});
 
 var imported=AT.decodeShare(location.hash);if(imported.ok){G.share=imported.data;session.ai=imported.data.ai;session.surface=imported.data.surface;G.venue=imported.data.venue}
 window.AT=AT;window.__AT_DEBUG={sentinel:'apextennis-build-'+'2026-08-04',prefix:PREFIX,store:Store,state:function(){return G},start:function(){startMatch(true)},choose:function(id){beginPoint(AT.getPlan(id))},share:function(d){return AT.encodeShare(d)},imported:imported,storageWritesOnShare:0};

diff --git a/tools/verify_apextennis.js b/tools/verify_apextennis.js
@@ -12,7 +12,7 @@ const sha=crypto.createHash('sha256').update(html).digest('hex');
 // moves to the newly gated bytes in the same PR as the file). The only byte
 // change from the gated build is the head URLs restored to their source form.
 // Previous: 06791f86106d6ba79a9b697446511ddedf21a769c20db19dcb6400991e6f5f8f
[2 lines of base64/hex data omitted]
 const results=[];
 function assert(x,m){if(!x)throw new Error(m)}
 function gate(id,name,fn){try{const d=fn()||'';results.push({id,name,status:'PASS',detail:d});console.log(`PASS ${id} ${name}${d?' — '+d:''}`)}catch(e){results.push({id,name,status:'FAIL',detail:e.message});console.error(`FAIL ${id} ${name} — ${e.message}`)}}
